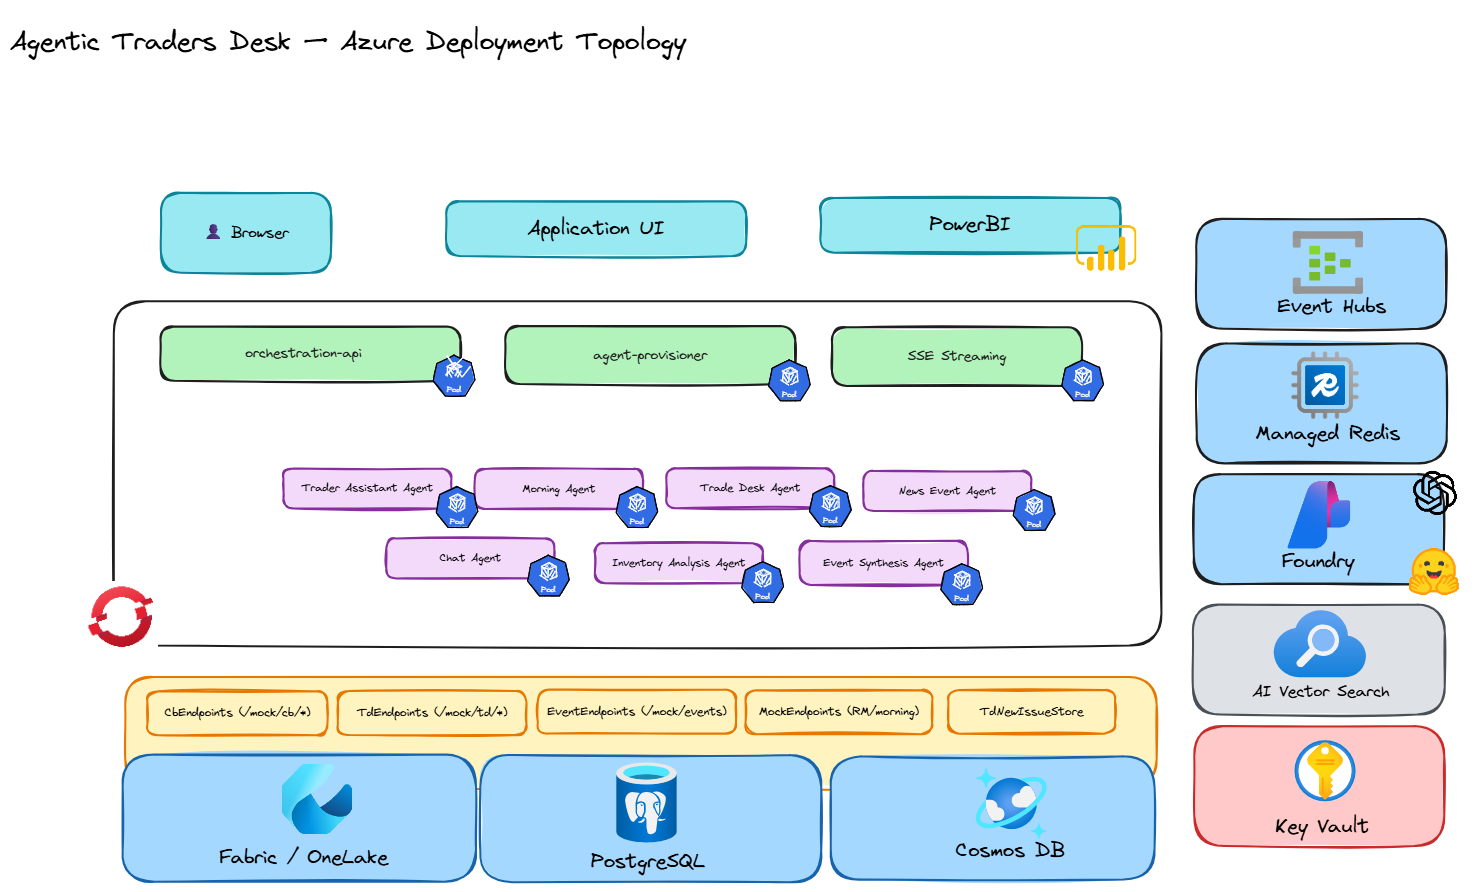
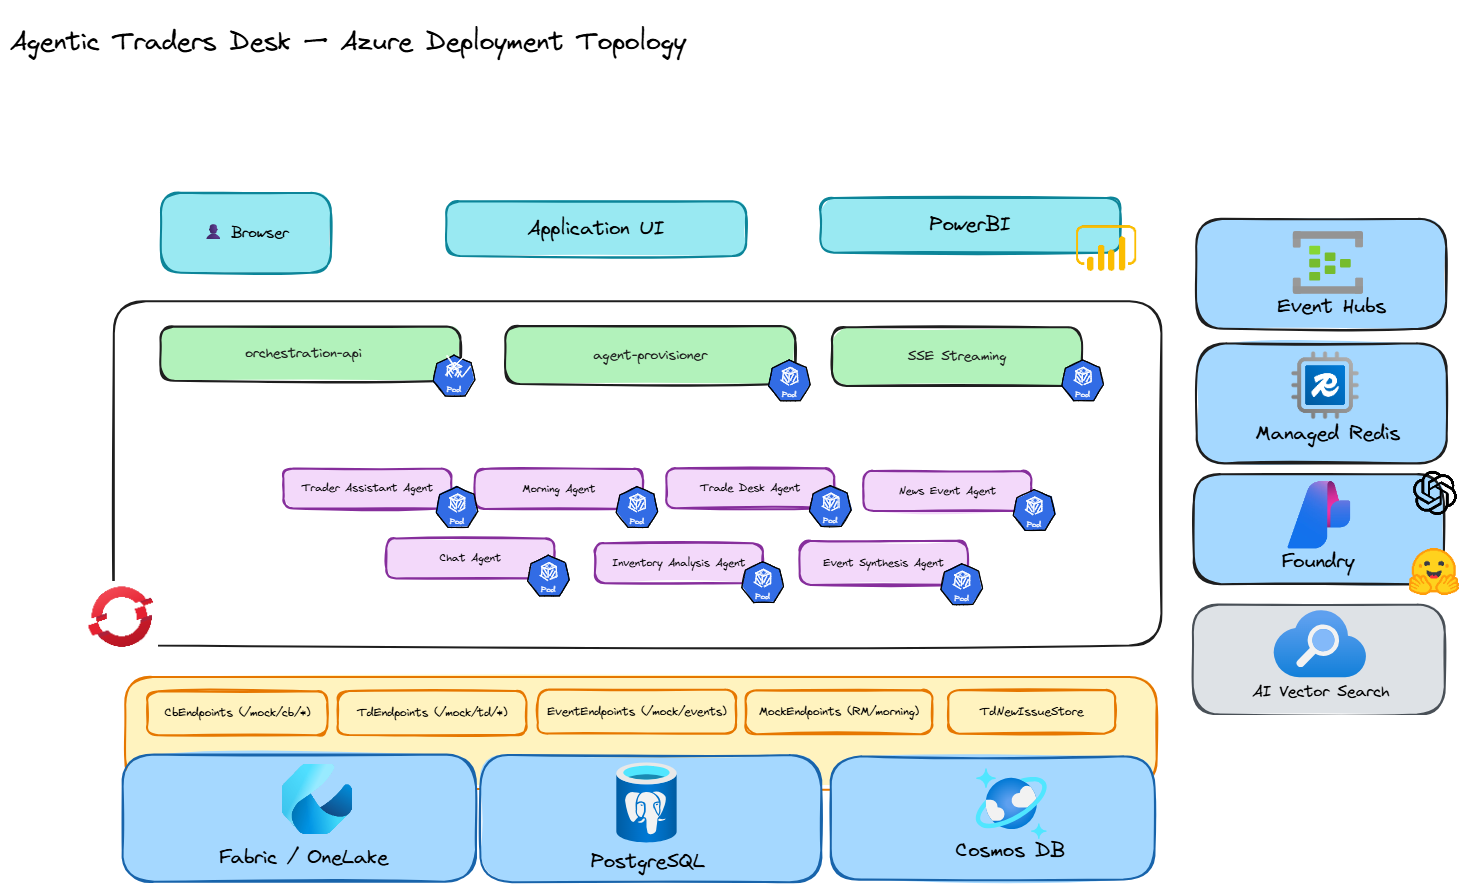
fix(infra): remove Key Vault deployment dependency
Store Terraform-generated configuration as Container App secrets in both modes while retaining managed-identity authentication for Foundry and ACR. Aligns with FR-014 and Constitution Principle IV.

Copilot-Session: e0f9e586-d635-4c00-af9f-480f91019069

Changed region(s): [[0.8081, 0.787, 0.9946, 0.9686]]

diff --git a/README.md b/README.md
@@ -25,7 +25,7 @@ agents and push a re-synthesized briefing to the open cockpit live over SSE.
 - **Agents/API**: C# / .NET 10, Microsoft Agent Framework, Azure AI Foundry in LIVE mode
 - **UI**: React 19 + TypeScript + MUI v9
 - **Mock systems of record**: C# Minimal API serving fictional fixtures through `openapi/tools.yaml` endpoints
-- **Runtime**: Azure Container Apps, ACR, Key Vault, managed identity, Terraform
+- **Runtime**: Azure Container Apps, ACR, managed identity, Terraform
 - **Observability**: Serilog + OpenTelemetry via `src\shared\Observability`
 
 ## Architecture
@@ -52,7 +52,7 @@ broadcasts one consolidated re-synthesized briefing per scene over SSE when even
 | Diagram | Preview | Source |
 |---|---|---|
 | **Application architecture** — `src/` code map: UI scenes → orchestration-api (DEMO/LIVE runners, tools) → mock-api stores | [![Application architecture](docs/src-architecture.png)](docs/src-architecture.png) | [`docs/src-architecture.excalidraw`](docs/src-architecture.excalidraw) |
-| **Azure deployment topology** — `infra/*.tf`: Resource Group, Container Apps Environment, the three apps + provisioner job, ACR/Key Vault/MI/App Insights, and Azure AI Foundry | [![Azure deployment topology](docs/infra-architecture.png)](docs/infra-architecture.png) | [`docs/infra-architecture.excalidraw`](docs/infra-architecture.excalidraw) |
+| **Azure deployment topology** — `infra/*.tf`: Resource Group, Container Apps Environment, the three apps + provisioner job, ACR/MI/App Insights, and Azure AI Foundry | [![Azure deployment topology](docs/infra-architecture.png)](docs/infra-architecture.png) | [`docs/infra-architecture.excalidraw`](docs/infra-architecture.excalidraw) |
 
 The `.excalidraw` sources are editable at [aka.ms/excalidraw](https://aka.ms/excalidraw).
 
@@ -142,16 +142,15 @@ task up -- canadacentral
 $env:DEMO_MODE = 'false'; task up -- swedencentral
 ```
 
-`task up` runs: `cloud:apply-infra` (environment incl. ACR + Key Vault/Foundry in FULL mode) → `build:all`
+`task up` runs: `cloud:apply-infra` (environment incl. ACR + Foundry in FULL mode) → `build:all`
 (push images to ACR) → `cloud:apply-apps` (Container Apps) → `cloud:provision` (Foundry agent job,
 FULL only) → `cloud:url`. Tear down with `task down -- <region>`.
 
 Terraform provisions the Container Apps environment, ACR, managed identity, App Insights, and — in
 FULL mode — Azure AI Foundry (account, project, gpt-5.4-mini deployment, connection, capability
-hosts) **plus Key Vault**. In pure DEMO mode (`enable_foundry=false`) Key Vault is **skipped
-entirely** — the container apps carry their (non-Foundry) config as direct Container App secrets — so
-demo deployments don't trip Key Vault subscription policies. Only `ui-app` has public ingress; the
-APIs are internal.
+hosts). Terraform-generated configuration is stored directly as Container App secrets in both modes;
+Foundry authentication uses the app's managed identity. The deployment has no Key Vault dependency.
+Only `ui-app` has public ingress; the APIs are internal.
 
 ## Observability & traceability
 
@@ -182,7 +181,7 @@ src\orchestration-api\   /api/agent/{scene}(+/stream), /api/events, /api/chat, D
 src\mock-api\            fictional system-of-record endpoints + reactive event store (/mock/events)
 src\agent-provisioner\   idempotent Foundry agent registration job (7 agents)
 src\shared\Observability\ Serilog, OTEL, correlation id, JSON errors
-infra\                   Terraform for ACA, ACR, Key Vault, Foundry
+infra\                   Terraform for ACA, ACR, managed identity, App Insights, Foundry
 tasks\                   Taskfile includes for local, build, and cloud workflows
 contracts\               morning-brief and agent API schemas
 openapi\tools.yaml       tool contract for Foundry/MCP import

diff --git a/.squad/decisions.md b/.squad/decisions.md
@@ -63,3 +63,8 @@
 **Decision:** Re-focus the demo on **Institutional Sales & Trading** built around `assets/trading_desk_dataset.xlsx`, targeting a coverage salesperson (persona **Theo Wexler**, book = Hyperion CL-2001, Tradewinds CL-2006, Halcyon CL-2013, Forge Hill CL-2018) — "Morning Planning & Prioritized Outreach" rendered as a prioritized **client call list**. Built **additively** in 7 phases, keeping the Commercial Banking RM + municipal flows intact. Shipped: P1 `TdBriefing` models + `TdBriefingTools` (12 mock-api tools), P2 deterministic `TdBriefingComposer` (+`EventImpactResolver`: news/research matched by security **or issuer**, never broad sector; component caps news+research≤100/RFQ≤60/inquiry≤60/axe≤60; rank→priority bands 1-2→P1,3-4→P2,5-6→P3,else P4; market direction from related-news sentiment), P3 LIVE `TdAgentRunner` + `trading-desk-morning` Foundry agent (`Prompts\trading-desk-morning.md`, model `FOUNDRY_MODEL_TRADING`, DEMO-composer safety net), P5 UI (`/` landing chooser + `/desk` `TradeDeskScene` + `/desk/morning-brief` `TdMorningBriefScene`, shared `useTdBriefing` auto-run+persist+SSE), and P4 reactive re-rank (`GET /api/agent/td-briefing/stream` + one-click **AI-capex breaking print** marquee inject in `/admin`). DEMO and LIVE return the identical `TdBriefing` shape. Commits: `11cc10a` (P1/P2), `0056b0a` (P5 UI), `8788873` (P3 LIVE), `8a03b38` (P4 SSE+admin).
 
 **Rationale:** The Garage demo audience moved to traders covering institutional clients like BlackRock; the trading dataset (clients/securities/trades/rfqs/crm/holdings/inventory/inquiries/news/research/themes) is the only dataset that matters for that audience. Reusing the proven RM-briefing architecture (deterministic DEMO composer + Foundry LIVE synthesizer + SSE event re-rank + News Desk inject) keeps Principle II (tools-over-HTTP), Principle III (LIVE/DEMO parity), and the human-in-the-loop, no-outbound posture intact, while the additive approach preserves the existing scenes for regression. All data fictional.
+
+### 2026-10-07: Remove the Azure Key Vault deployment dependency
+**Decision:** Remove Key Vault resources, secrets, RBAC, and network discovery from Terraform in all modes. Store the Terraform-generated Foundry endpoint and Application Insights connection string directly as Container App secrets; continue authenticating to Foundry and ACR with the user-assigned managed identity.
+
+**Rationale:** The target environment's public/private endpoint requirements prevent this application from provisioning or consuming Key Vault reliably. Neither stored value is a model credential, and direct Container App secrets already supported DEMO mode, so using that path for LIVE preserves managed-identity authentication while allowing Foundry deployments without Key Vault.

diff --git a/docs/architecture.md b/docs/architecture.md
@@ -57,7 +57,7 @@ folders; the editable source is [`src-architecture.excalidraw`](src-architecture
 
 ## Deployment topology (Azure Container Apps)
 
-![Azure deployment topology — a Resource Group holds a Container Apps Environment running ui-app (external ingress), orchestration-api and mock-api (internal), plus the agent-provisioner job; alongside ACR, Key Vault, a user-assigned managed identity, Application Insights / Log Analytics, and — in FULL mode — Azure AI Foundry.](infra-architecture.png)
+![Azure deployment topology — a Resource Group holds a Container Apps Environment running ui-app (external ingress), orchestration-api and mock-api (internal), plus the agent-provisioner job; alongside ACR, a user-assigned managed identity, Application Insights / Log Analytics, and — in FULL mode — Azure AI Foundry.](infra-architecture.png)
 
 Terraform (`infra/*.tf`, one workspace per region) provisions a **Container Apps Environment**
 with three apps — `ui-app` (the only public ingress), `orchestration-api`, and `mock-api` (both
@@ -65,10 +65,9 @@ internal) — plus the `agent-provisioner` Container App **job**. Supporting pla
 **ACR** (image pulls via managed identity), a **user-assigned managed identity**, and
 **Application Insights / Log Analytics**. `DEMO_MODE` selects DEMO vs. FULL: in FULL mode
 `enable_foundry` also stands up **Azure AI Foundry** (AIServices account + project + model
-deployments) reached over `FOUNDRY_PROJECT_ENDPOINT`, **plus Key Vault** holding the Foundry
-endpoint + App Insights connection secrets (referenced by the apps via managed identity). In pure
-DEMO mode Key Vault is **skipped** and the apps carry those values as direct Container App secrets,
-so demo deployments don't require Key Vault. Editable source:
+deployments) reached over `FOUNDRY_PROJECT_ENDPOINT`. Terraform-generated configuration values are
+stored directly as Container App secrets in both modes, while Foundry authentication uses managed
+identity. The deployment has no Key Vault dependency. Editable source:
 [`infra-architecture.excalidraw`](infra-architecture.excalidraw).
 
 ## Where the orchestrator vs. the agent live
@@ -409,4 +408,3 @@ title + action bar):
   eyebrow, a composite-score chip, structured talking-point editors, a personal-note field, and a
   collapsible "Why this ranking?" rationale (wallet / engagement / event-relevance / composite bars +
   explanation). The plan stays human-in-the-loop and demo-only — approval issues no outbound call.
-

diff --git a/docs/getting-started.md b/docs/getting-started.md
@@ -36,8 +36,8 @@ Copy-Item .env.example .env
 | `EVENT_FANOUT_MAX_CONCURRENCY` | `4` | Per-event specialist fan-out concurrency (LIVE). |
 
 > Never put secret values in `.env.example`. Local LIVE uses `DefaultAzureCredential`; deployed
-> FULL/LIVE environments use Key Vault, while pure DEMO deployments skip Key Vault and carry config
-> as direct Container App secrets.
+> environments store Terraform-generated configuration directly as Container App secrets and use
+> managed identity for Foundry authentication.
 
 ## 3. Run locally — DEMO mode
 
@@ -137,10 +137,9 @@ task down -- <region>               # tear down
 → `cloud:url`. To roll freshly rebuilt images onto already-running apps without a full apply, use
 `task cloud:deploy -- <region>` (forces a new revision per app).
 
-> **Key Vault note**: Key Vault is provisioned **only in FULL/LIVE mode** (`enable_foundry=true`);
-> pure DEMO deployments skip it and set the container apps' secrets directly. When present, KV access
-> is gated by Azure RBAC (managed identity) with the public endpoint enabled; routine post-deploy
-> changes are applied with `az` against the running apps/jobs.
+> The deployment has no Key Vault dependency. Terraform stores the generated Foundry endpoint and
+> Application Insights connection string directly as Container App secrets; access to Foundry uses
+> the app's managed identity.
 
 ## 7. Troubleshooting
 

diff --git a/docs/references.md b/docs/references.md
@@ -27,7 +27,7 @@ the repository root.
 | Scene schemas | [`specs/001-morning-planning-outreach/contracts/`](../specs/001-morning-planning-outreach/contracts/) | `MorningBrief` / agent API JSON schemas. |
 | Environment template | [`.env.example`](../.env.example) | All configuration variables (no secrets). |
 | Agent prompts | [`src/orchestration-api/Prompts/`](../src/orchestration-api/Prompts/) | `rm-daily-briefing`, `morning-brief`, `event-specialist`, `markets-assistant`, `briefing-synthesizer`. |
-| Infrastructure | [`infra/`](../infra/) | Terraform for ACA, ACR, Key Vault, identity, App Insights, Foundry. |
+| Infrastructure | [`infra/`](../infra/) | Terraform for ACA, ACR, identity, App Insights, Foundry. |
 | Task workflows | [`tasks/`](../tasks/) | `Taskfile.local.yml`, `Taskfile.build.yml`, `Taskfile.cloud.yml`. |
 
 ## Reference architecture
@@ -42,7 +42,6 @@ the repository root.
 | Microsoft Agent Framework | <https://learn.microsoft.com/agent-framework/> |
 | Azure AI Foundry | <https://learn.microsoft.com/azure/ai-foundry/> |
 | Azure Container Apps | <https://learn.microsoft.com/azure/container-apps/> |
-| Azure Key Vault | <https://learn.microsoft.com/azure/key-vault/> |
 | Azure Container Registry | <https://learn.microsoft.com/azure/container-registry/> |
 | .NET 10 | <https://learn.microsoft.com/dotnet/> |
 | React 19 | <https://react.dev/> |

diff --git a/docs/README.md b/docs/README.md
@@ -18,7 +18,7 @@
 | Diagram | Source (editable) | Preview |
 |---------|-------------------|---------|
 | Application architecture (`src/` code map: UI → orchestration-api → mock-api) | `docs/src-architecture.excalidraw` | `docs/src-architecture.png` |
-| Azure deployment topology (`infra/*.tf`: RG, Container Apps Env, ACR/Key Vault/MI/App Insights, Foundry) | `docs/infra-architecture.excalidraw` | `docs/infra-architecture.png` |
+| Azure deployment topology (`infra/*.tf`: RG, Container Apps Env, ACR/MI/App Insights, Foundry) | `docs/infra-architecture.excalidraw` | `docs/infra-architecture.png` |
 | Agentic trading intelligence north-star (orchestrator + agent pipeline) | `docs/trader_agent_diagram.excalidraw` | `docs/Traders Agent Diagram.png` |
 | Intent engineering | `docs/intent_engineering.excalidraw` | `docs/Intent Engineering.png` |
 
